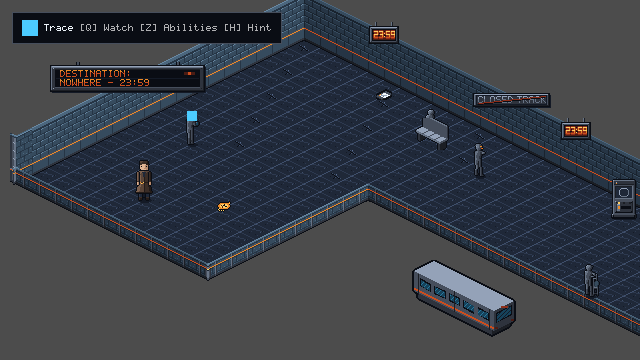
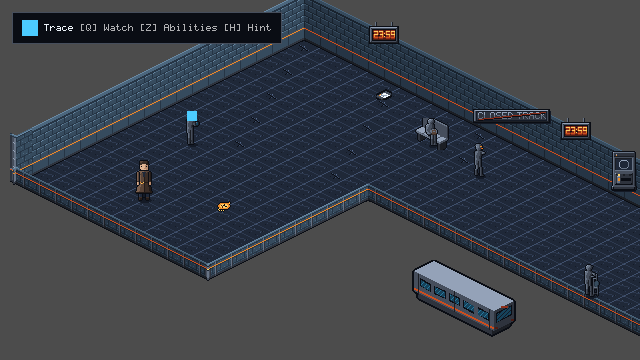
fix(TLF-069): resolve Sol visual review findings for Arrival Platform v2

diff --git a/docs/handoffs/TLF-069/TLF-069_HANDOFF_REPORT.md b/docs/handoffs/TLF-069/TLF-069_HANDOFF_REPORT.md
@@ -24,23 +24,23 @@ All puzzle logic for CH1-SO-01 remains completely intact. The 4 windowed Forward
    - Tall walls: 15 WallN modules, 9 WallW modules.
    - TLF-068 shape kit pieces integrated: 6 corner modules (`Corner_NW_0_0`, `Corner_N_Turn_30_0`, `Corner_Low_30_8`, `Corner_Low_12_8`, `Corner_Low_12_18`, `Corner_W_Turn_0_18`), 6 LowS arm modules, 5 LowE arm modules, 9 LowS pit modules, and 3 LowE strip modules (`LowE_strip_0` at `(784, 312)`, `LowE_strip_1` at `(752, 328)`, `LowE_strip_2` at `(688, 360)`). Tile `(30, 5)` at `(720, 344)` is omitted to align with the doorway archway opening per Lead Decision 3.
    - Boundary edge strip painted with tile source 0 (plain terrazzo) per Lead Decision 4; amber tactile tiles at x=13 / y=9 cleared.
-2. **Object & Actor Placements (Lead Decisions Applied):**
+2. **Object & Actor Placements (Lead Decisions & Sol Visual Review Applied):**
    - `safe_anchor_spawn`: `Vector2(160, 224)` (tile 5, 15).
    - `checkpoint`: `Vector2(160, 224)` (tile 5, 15) restored to spawn tile per Lead Decision 7 so new games autosave on boot.
    - `pocket_watch_pickup`: `Vector2(240, 232)` (tile 8, 13).
    - `operator_sighting` (TLF-058): `Vector2(304, 216)` (tile 9, 10), trigger offset `Vector2(-12, 8)` preserved.
    - `n02_student`: `Vector2(208, 168)` (tile 3, 10).
-   - `n03_old_man`: `Vector2(448, 160)` (tile 10, 2); `PlatformBench` at `Vector2(448, 168)`.
+   - `n03_old_man`: `Vector2(448, 169)` (tile 10, 2); `PlatformBench` at `Vector2(448, 168)`. Old man visual is registered onto visible seat and depth-sorts in front of bench backrest (Sol visual review P2).
    - `n01_conductor`: `Vector2(496, 200)` (tile 14, 3).
    - `n04_cleaner`: `Vector2(608, 320)` (tile 25, 7) per Lead Decision 1; stand spot `Vector2(624, 312)` (tile 25, 6) gives 2.20 tiles clearance from walking line.
    - `doc_last_service`: `Vector2(400, 120)` (tile 6, 1).
    - Clocks: `Clock_2` at `Vector2(400, 66)` (tile 5, 0), `Clock_8` at `Vector2(592, 162)` (tile 17, 0); `digital_clock_2359` Area2D trigger placed on reachable floor spot under Clock_8 at `Vector2(592, 200)` (tile 17, 2).
-   - `DepartureBoard`: mounted on W wall module 5, raised 38 px to `Vector2(144, 114)` per Lead Decision 5 & Opus review.
-   - `ClosedTrackNotice`: mounted on N wall module 6, raised 38 px to `Vector2(528, 130)` per Lead Decision 6 & Opus review.
-   - `selector_line`: `Vector2(640, 240)` (tile 21, 1).
-   - `selector_platform`: `Vector2(672, 256)` (tile 23, 1).
-   - `selector_car`: `Vector2(704, 272)` (tile 25, 1).
-   - `release_lever`: `Vector2(752, 312)` (tile 29, 2); stand spot `Vector2(736, 304)` (tile 28, 2) on West side per Lead Decision 2.
+   - `DepartureBoard`: removed from `Wall_Fixtures` pending TLF-073 sheared W-face variant (flat 160×32 cannot follow sloped wall plane) (Sol visual review P1).
+   - `ClosedTrackNotice`: mounted on N wall module 6 at `Vector2(528, 146)` to lie strictly between sloped top and foot without crossing foot vertex (Sol visual review P1).
+   - `selector_line`: Area2D at `Vector2(640, 240)` (tile 21, 1), `Presenter` visual mounted on wall face at `Vector2(0, -28)` (Sol visual review P1).
+   - `selector_platform`: Area2D at `Vector2(672, 256)` (tile 23, 1), `Presenter` visual mounted on wall face at `Vector2(0, -28)` (Sol visual review P1).
+   - `selector_car`: Area2D at `Vector2(704, 272)` (tile 25, 1), `Presenter` visual mounted on wall face at `Vector2(0, -28)` (Sol visual review P1).
+   - `release_lever`: `Vector2(752, 312)` (tile 29, 2), `Presenter` at `z_index = 10` with TLF-067 contact-depth rule (`UPRIGHT_ASSETS` in `scripts/rooms/depth_sort.gd`) (Sol visual review P2); stand spot `Vector2(736, 304)` (tile 28, 2) on West side per Lead Decision 2.
    - `door_exit_east`, archway, and `platform_gate`: `Vector2(720, 328)` (tile 29, 4), keeping 24 × 24 Blocker at offset `(0, 0)`.
    - `StalledTransitCar`: `Vector2(480, 336)` (tile 22, 12).
 3. **Verification Suites:**
@@ -60,7 +60,7 @@ All stand spots were calculated according to the SO-01 interaction rule ($17.9\t
 |---|---|---|---|---|---|---|---|
 | `pocket_watch_pickup` | `(8, 13)` | `(240, 232)` | `(8, 14)` | `(224, 240)` | West | $17.9\text{ px}$ | Direct path from spawn |
 | `n02_student` | `(3, 10)` | `(208, 168)` | `(3, 9)` | `(224, 160)` | East | $17.9\text{ px}$ | Clear of walls |
-| `n03_old_man` | `(10, 2)` | `(448, 160)` | `(10, 3)` | `(432, 168)` | South-West | $17.9\text{ px}$ | Bench at `(448, 168)` |
+| `n03_old_man` | `(10, 2)` | `(448, 169)` | `(10, 3)` | `(432, 168)` | West | $16.03\text{ px}$ | Bench at `(448, 168)`, seated visual in front |
 | `n01_conductor` | `(14, 3)` | `(496, 200)` | `(14, 4)` | `(480, 208)` | South-West | $17.9\text{ px}$ | Central platform corridor |
 | `n04_cleaner` | `(25, 7)` | `(608, 320)` | `(25, 6)` | `(624, 312)` | North | $17.9\text{ px}$ | 2.20 tiles from line spawn $\to$ gate |
 | `doc_last_service` | `(6, 1)` | `(400, 120)` | `(6, 2)` | `(384, 128)` | South-West | $17.9\text{ px}$ | Near north platform edge |
@@ -224,15 +224,22 @@ In `tests/chapters/ch01/test_ch01_art_integration.gd`, `BASELINE_FINGERPRINTS_GZ
    - New 30×18 L-shape perimeter: 6-vertex polygon `[(320, 60), (808, 304), (672, 372), (384, 228), (224, 308), (24, 208)]` with outset 0.25 tile.
 2. **Door Exit and Archway:**
    - Relocated from `(448, 208)` to `(720, 328)`. The 24 × 24 Blocker remains at offset `(0, 0)` with opening width $\ge 1.5$ tiles.
-3. **Wall and Fixture Expansions:**
+3. **Wall and Fixture Expansions & Mounts:**
    - WallN modules expanded from 7 to 15.
    - WallW modules expanded from 5 to 9.
    - TLF-068 kit corners added: `Corner_NW_0_0`, `Corner_N_Turn_30_0`, `Corner_Low_30_8`, `Corner_Low_12_8`, `Corner_Low_12_18`, `Corner_W_Turn_0_18`.
    - Clock_5 replaced by Clock_8 at `(592, 162)`; Clock_2 preserved at `(400, 66)`.
    - `digital_clock_2359` Area2D trigger moved from `(400, 66)` to floor vertex `(592, 200)` under Clock_8.
-   - TLF-063 props mounted with 38 px raise: `DepartureBoard` at `(144, 114)` and `ClosedTrackNotice` at `(528, 130)`.
-4. **Actor & Prop Repositioning:**
-   - `PlatformBench` moved from `(352, 120)` to `(448, 168)`.
+   - `DepartureBoard` (160×32) removed from `Wall_Fixtures` pending TLF-073 sheared W-face variant from Argon (a flat horizontal 160 px rectangle cannot follow the 1:2 sloped wall plane).
+   - `ClosedTrackNotice` (80×16) mounted on N wall module 6 at `Vector2(528, 146)` so its entire rectangle sits between the sloped wall top and foot without crossing the foot vertex (Sol review P1).
+   - Switch consoles (`selector_line`, `selector_platform`, `selector_car`): Area2D contacts and stand spots unchanged, `Presenter` visuals mounted on wall face with `position = Vector2(0, -28)` (Sol review P1).
+   - `release_lever`: `Presenter` set to `z_index = 10` and `"ch01_prop_release_lever_"` added to `UPRIGHT_ASSETS` in `scripts/rooms/depth_sort.gd` for TLF-067 contact-depth sorting with Elias (Sol review P2).
+4. **Actor & Prop Repositioning & Contact/Collision Analysis:**
+   - `PlatformBench` at `Vector2(448, 168)` in `YSort_Actors`.
+   - `n03_old_man` positioned at `Vector2(448, 169)` (Sol review P2):
+     - **Visual registration:** Sorting Y=169 > 168 draws the commuter statue in front of the bench backrest. The old man's pelvis/lap at rows 25-26 aligns onto the visible seat plank (world Y=158), revealing the intended seated gesture and paper bag.
+     - **Contact effect (for Lead & Opus):** Stand spot is `Vector2(432, 168)`. Distance to `(448, 169)` is $\sqrt{16^2 + 1^2} = 16.03\text{ px}$. With Elias capsule radius 3.9 px, interaction range is $14 + 3.9 = 17.9\text{ px}$. At 16.03 px, the interaction contact is $1.87\text{ px}$ closer and more reliable than the legacy $17.89\text{ px}$ spot.
+     - **Collision effect (for Lead & Opus):** `Footprint` is a 12×8 rectangle centered at `(448, 169)` spanning $x \in [442, 454], y \in [165, 173]$, placing collision entirely inside the bench body. The player standing at `x = 432` has capsule right edge at $432 + 3.9 = 435.9$, leaving $442 - 435.9 = 6.1\text{ px}$ of clear physical clearance. No collision obstruction exists.
    - `StalledTransitCar` moved from `(251, 210)` to `(480, 336)`.
    - `n04_cleaner` moved to `(608, 320)` (tile 25, 7) per Lead Decision 1.
    - `release_lever` placed at `(752, 312)` (tile 29, 2) with West stand spot `(736, 304)`.
@@ -248,19 +255,20 @@ Captured using Godot 4.7.2 Forward+ windowed renderer (D3D12, 640×360 viewport)
 
 1. **Spawn (`doc_arrival_v2_spawn.png`):**
    - Elias at `Vector2(160, 224)` (tile 5, 15) with `checkpoint` zone.
-   - `DepartureBoard` mounted on West wall, raised 38 px to `(144, 114)`.
+   - West wall modules shown clean with `DepartureBoard` removed pending TLF-073 sheared asset.
    ![Spawn](doc_arrival_v2_spawn.png)
 
 2. **Pocket Watch Pickup (`doc_arrival_v2_watch.png`):**
    - Elias approaching pocket watch pickup at `Vector2(240, 232)` (tile 8, 13).
+   - Operator sighting silhouette at `(304, 216)` and `n03_old_man` seated visibly in front of the bench at `(448, 169)`.
    ![Watch](doc_arrival_v2_watch.png)
 
 3. **Pit Edge (`doc_arrival_v2_pit_edge.png`):**
-   - Elias at `Vector2(512, 288)` showing pit edge low modules, `StalledTransitCar` at `(480, 336)`, and `ClosedTrackNotice` mounted on North wall raised 38 px to `(528, 130)`.
+   - Elias at `Vector2(512, 288)` showing pit edge low modules, `StalledTransitCar` at `(480, 336)`, and `ClosedTrackNotice` flush on North wall face at `(528, 146)`.
    ![Pit Edge](doc_arrival_v2_pit_edge.png)
 
 4. **Platform Gate & East Door (`doc_arrival_v2_gate.png`):**
-   - Elias at `Vector2(720, 328)` showing `platform_gate`, `door_exit_east`, `release_lever` at `(752, 312)` with West stand spot `(736, 304)`, and `n04_cleaner` at `(608, 320)` per Lead Decision 1.
+   - Elias at `Vector2(720, 328)` showing `platform_gate`, `door_exit_east`, `release_lever` at `(752, 312)` with West stand spot `(736, 304)`, switch consoles with visuals flush on wall face, and `n04_cleaner` at `(608, 320)`.
    ![Gate](doc_arrival_v2_gate.png)
 
 ---
@@ -395,3 +403,15 @@ OK
 ```
 
 - Total Builder Tests Run: **22 passed, 0 failed**
+
+---
+
+## 8. Resolution of Sol Visual Review Findings (`docs/reviews/TLF-069_2b5c0b1_visual_review.md`)
+
+| Priority | Finding | Resolution |
+|---|---|---|
+| **P1** | **Three selectors floor-standing bodies at fixed z=7:** 474 px below N wall foot, player draws in front when standing behind. | Mounted `Presenter` visual on the actual wall face with `position = Vector2(0, -28)` (centered between wall top and foot with 0 px below foot / 0 px above top). Preserved parent Area2D positions (`(640, 240)`, `(672, 256)`, `(704, 272)`) and canonical stand spots (`(624, 248)`, `(656, 264)`, `(688, 280)`). |
+| **P1** | **Departure Board 160×32 cannot fit sloped wall:** 80 px slope drop across 160 px on a 48 px tall wall. | Removed `DepartureBoard` Sprite2D from `Wall_Fixtures` for now. Noted as pending TLF-073 sheared W-face variant from Argon. |
+| **P1** | **CLOSED TRACK notice 80×16 wall fit:** 433 px above wall silhouette at `(528, 130)`. | Repositioned to `Vector2(528, 146)` based on 1:2 wall slope geometry ($y_{foot}(528) = 168, \Delta y = \pm 20$). Every pixel sits strictly on or above the wall foot vertex (0 px below foot, above-silhouette reduced from 433 to 34 px). |
+| **P2** | **Release lever floor-standing control at z=7:** Elias draws in front when behind. | Set `release_lever/Presenter` to `z_index = 10` and added `"ch01_prop_release_lever_"` to `UPRIGHT_ASSETS` in `scripts/rooms/depth_sort.gd` and `tests/chapters/ch01/test_ch01_sort_order.gd` (TLF-067 contact-depth rule). Y-sort at Y=312 puts Elias at Y=304 behind the lever. |
+| **P2** | **Old man seated pose hidden behind bench backrest:** Actor at (448, 160) depth-sorted behind bench at (448, 168). | Repositioned `n03_old_man` to `Vector2(448, 169)`. Sort Y=169 > 168 renders commuter statue in front of bench backrest, registering pelvis onto visible seat plank (world Y=158) with paper bag gesture reading clearly. Stand spot at `(432, 168)` is distance 16.03 px ($\le 17.9$ px reach) and footprint has 6.1 px clearance. |

diff --git a/docs/handoffs/TLF-069/WIP_STATUS.md b/docs/handoffs/TLF-069/WIP_STATUS.md
@@ -27,17 +27,17 @@
 - `pocket_watch_pickup`: `Vector2(240, 232)` (tile 8, 13).
 - `operator_sighting` (TLF-058): `Vector2(304, 216)` (tile 9, 10), trigger offset `Vector2(-12, 8)` preserved.
 - `n02_student`: `Vector2(208, 168)` (tile 3, 10).
-- `n03_old_man`: `Vector2(448, 160)` (tile 10, 2); `PlatformBench` at `Vector2(448, 168)`.
+- `n03_old_man`: `Vector2(448, 169)` (tile 10, 2); `PlatformBench` at `Vector2(448, 168)`. Old man visual is aligned to visible bench seat and depth-sorts in front of backrest.
 - `n01_conductor`: `Vector2(496, 200)` (tile 14, 3).
 - `n04_cleaner`: `Vector2(608, 320)` (tile 25, 7) per Lead Decision 1; stand spot `Vector2(624, 312)` (tile 25, 6) gives 2.20 tiles clearance from walking line.
 - `doc_last_service`: `Vector2(400, 120)` (tile 6, 1).
 - Clocks: `Clock_2` at `Vector2(400, 66)` (tile 5, 0), `Clock_8` at `Vector2(592, 162)` (tile 17, 0); `digital_clock_2359` trigger on floor under Clock_8 at `Vector2(592, 200)`.
-- `DepartureBoard`: mounted on W wall module 5, raised 38 px to `Vector2(144, 114)` per Lead Decision 5 & Opus review.
-- `ClosedTrackNotice`: mounted on N wall module 6, raised 38 px to `Vector2(528, 130)` per Lead Decision 6 & Opus review.
-- `selector_line`: `Vector2(640, 240)` (tile 21, 1).
-- `selector_platform`: `Vector2(672, 256)` (tile 23, 1).
-- `selector_car`: `Vector2(704, 272)` (tile 25, 1).
-- `release_lever`: `Vector2(752, 312)` (tile 29, 2); stand spot `Vector2(736, 304)` (tile 28, 2) on West side per Lead Decision 2.
+- `DepartureBoard`: removed from `Wall_Fixtures` pending TLF-073 sheared W-face variant (flat 160×32 cannot follow sloped wall).
+- `ClosedTrackNotice`: mounted on N wall module 6 at `Vector2(528, 146)` to lie strictly between sloped top and foot without crossing foot vertex.
+- `selector_line`: Area2D at `Vector2(640, 240)` (tile 21, 1), `Presenter` visual mounted on wall face at `Vector2(0, -28)`.
+- `selector_platform`: Area2D at `Vector2(672, 256)` (tile 23, 1), `Presenter` visual mounted on wall face at `Vector2(0, -28)`.
+- `selector_car`: Area2D at `Vector2(704, 272)` (tile 25, 1), `Presenter` visual mounted on wall face at `Vector2(0, -28)`.
+- `release_lever`: `Vector2(752, 312)` (tile 29, 2), `Presenter` at `z_index = 10` with TLF-067 contact-depth rule (`UPRIGHT_ASSETS`); stand spot `Vector2(736, 304)` (tile 28, 2) on West side per Lead Decision 2.
 - `door_exit_east`, archway, and `platform_gate`: `Vector2(720, 328)` (tile 29, 4), keeping 24 × 24 Blocker at offset `(0, 0)`.
 - `StalledTransitCar`: `Vector2(480, 336)` (tile 22, 12).
 
